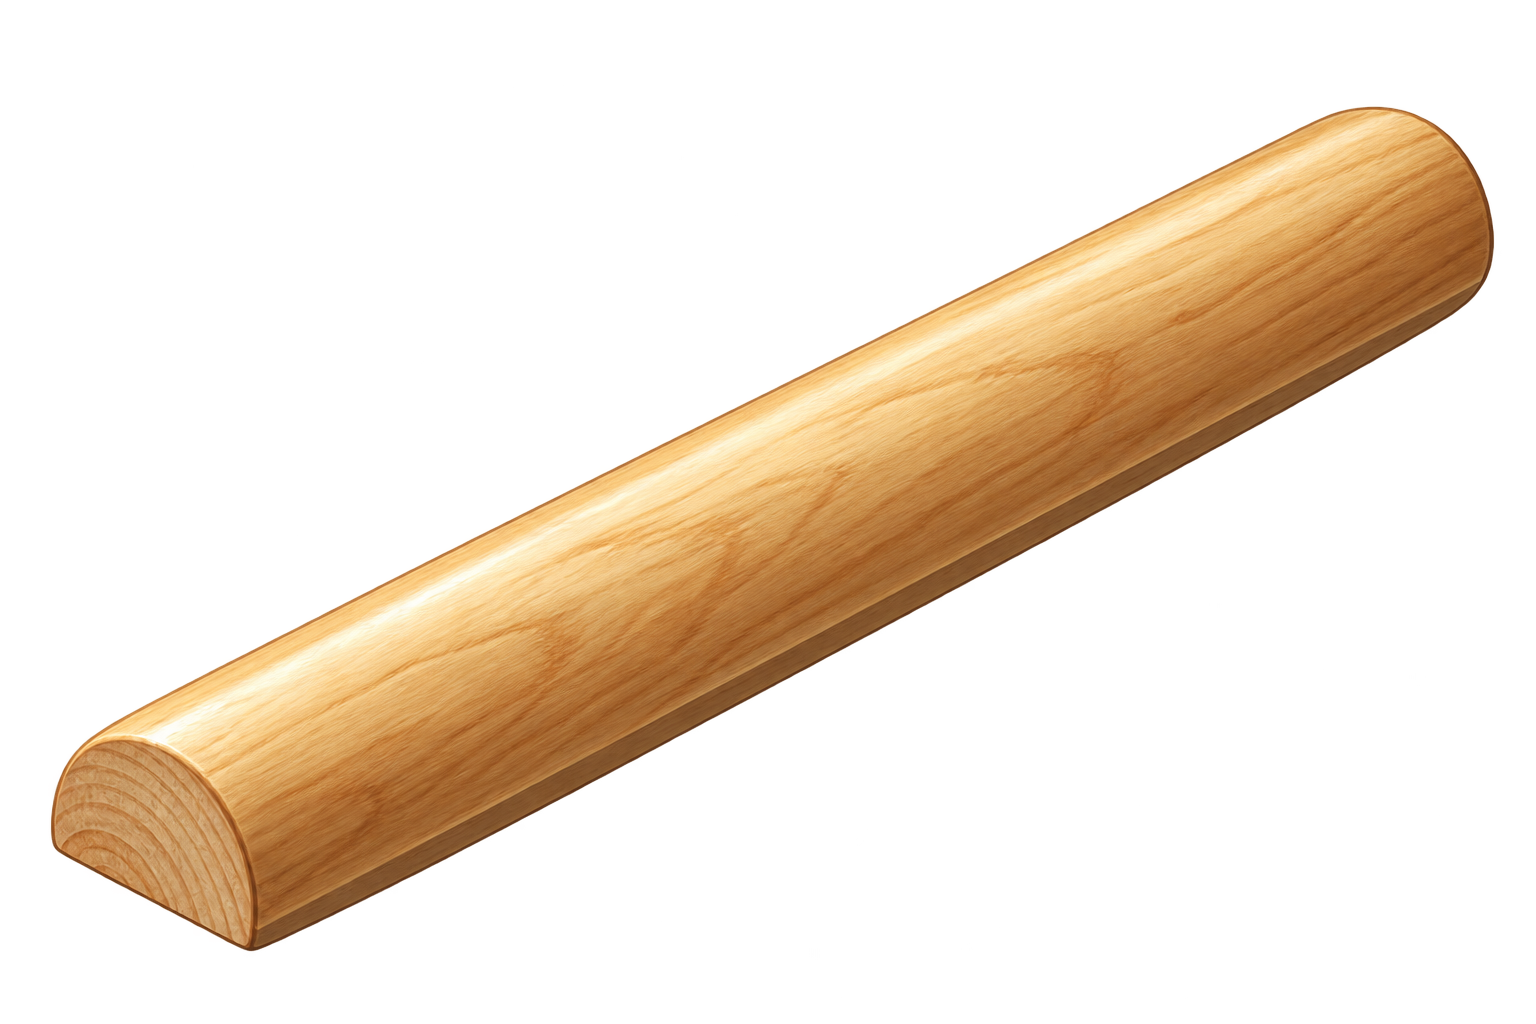
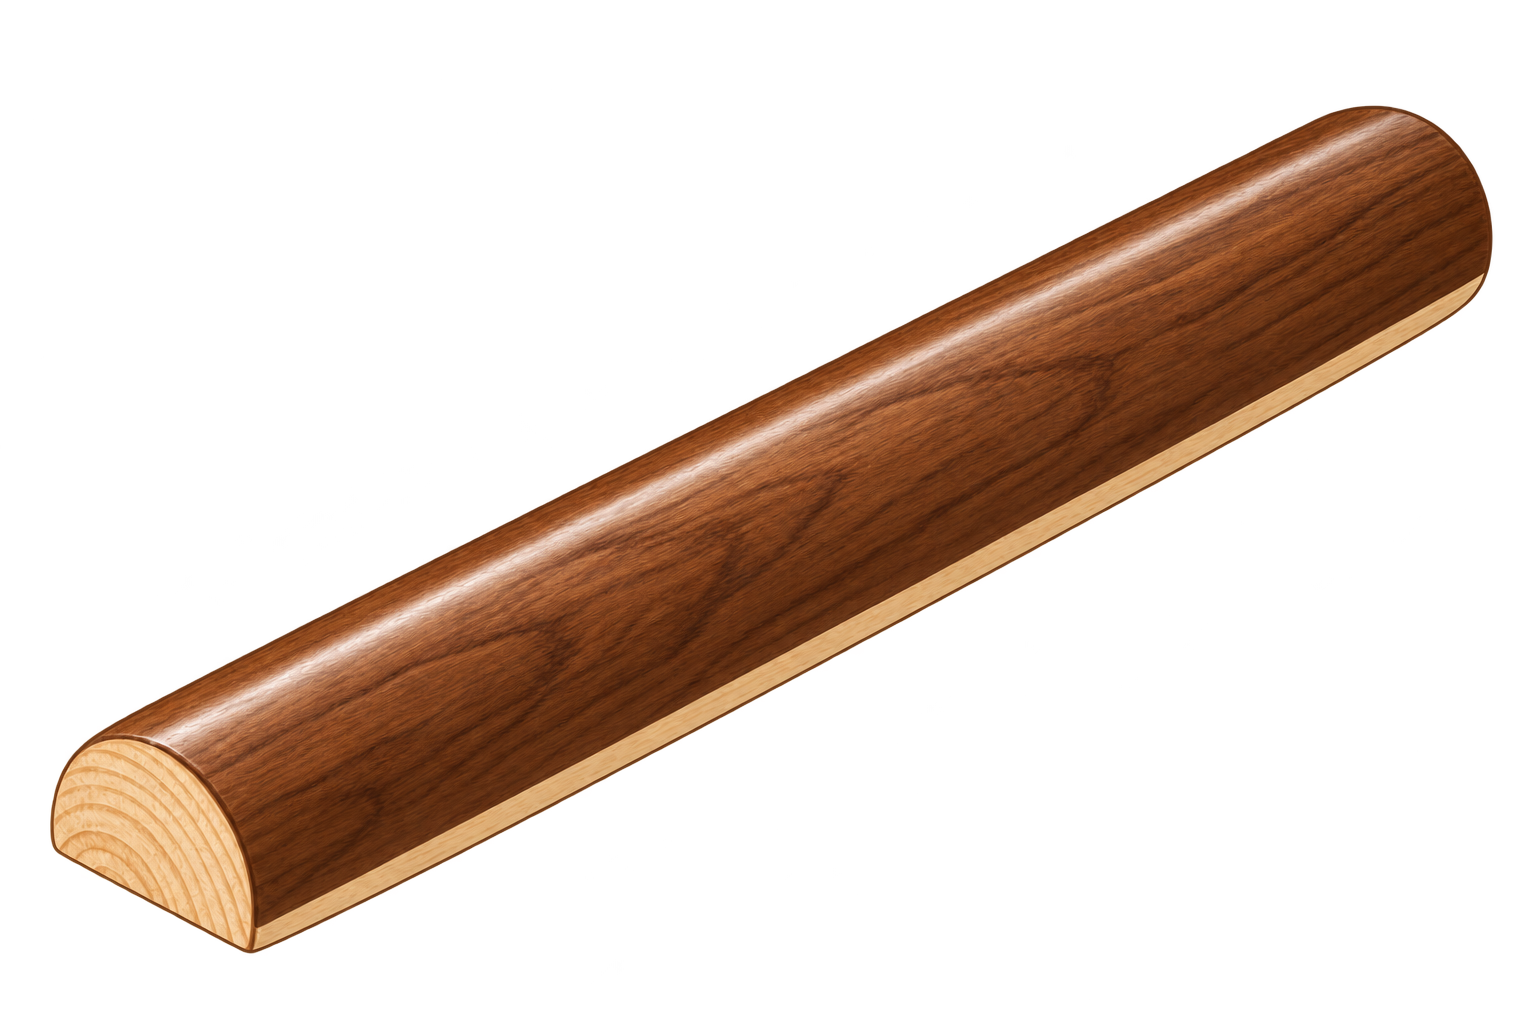
Add flat illustrated special tiles and correct yut face colors

Changed region(s): [[0.0312, 0.0938, 0.9688, 0.9375]]

diff --git a/public/app.js b/public/app.js
@@ -16,7 +16,7 @@ function renderSetup(){renderLobby();}
 function start(){if(config.filter(p=>p.team===0).length!==2){toast('홍단·청단 팀에 두 명씩 배정해주세요.');return}if(config.every(p=>p.ai)){toast('사람을 한 명 이상 선택해주세요.');return}config.forEach((p,i)=>p.name=p.name.trim()||'양반 '+(i+1));game=new Game(config);paused=false;selected=null;document.querySelector('#reset-btn').hidden=false;render();}
 function eligible(id){let s=game.s;if(!NET.canAct()||busy)return false;if(s.phase==='debt')return game.saleOptions().some(o=>o.id===id);if(s.phase==='travel')return id!==game.p.pos;if(s.phase==='route')return s.choice.options.includes(id);if(s.phase==='choice'&&['boost','inspect','invest','startBuild'].includes(s.choice.kind))return s.choice.options.includes(id);return false}
 function playerPanel(p){return `<article class="player owner-${p.color||'red'} team${p.team} ${game.p.id===p.id?'current':''} ${p.out?'out':''}"><img src="${img(p.character)}" alt="${CHARACTERS[p.character]}">${p.cards.length?'<span class="fortune-held" title="'+esc(CARDS[p.cards[0]].name)+'" aria-label="복주머니 보유 · '+esc(CARDS[p.cards[0]].name)+'"><span class="fortune-ball">福</span></span>':''}<div><span class="team-label t${p.team}">${team(p.team)} 팀 ${p.ai?'· AI':p.autoPlay?'· AI 자동':''} ${p.exile?'· 유배 '+p.exile+'회':''} ${p.disconnectedUntil?'· 자리 예약':''} ${p.out?'· 파산':''}</span><div class="name"><span class="player-name">${esc(p.name)}</span><span class="player-rank" title="총자산 ${money(game.grossAssets(p))}엽전">${game.rank(p)}위</span></div><div class="money"><img class="coin-icon" src="assets/coin.svg" alt="엽전">${money(p.cash)} <small>엽전</small></div><small>총자산 ${money(game.assets(p))} · 복귀 ${p.laps||0}회 · 건설 ${game.maxBuild(p)}단계 · 전당포 ${p.pawnUsed?'사용':'미사용'}</small>${p.famine||p.taxAt!==null?'<br><small class="warning">'+(p.famine?'다음 지원금 50엽전 ':'')+(p.taxAt!==null?'가렴주구 대기':'')+'</small>':''}</div></article>`;}
-function board(){let s=game.s;return `<div class="board-shell"><div class="board-scroll"><div class="board"><svg class="routes" viewBox="0 0 100 100" aria-hidden="true"><path class="under" d="M90 90V10H10V90Z M90 10L10 90 M10 10L90 90"/><path class="path" d="M90 90V10H10V90Z M90 10L10 90 M10 10L90 90"/></svg>${routeMarkers()}${NODES.map(n=>{let l=s.land[n.id],owner=l?.owner!==null&&l?.owner!==undefined?s.players[l.owner]:null,ps=s.players.filter(p=>!p.out&&p.pos===n.id);return `<button class="node ${n.type!=='property'?'special':''} ${n.type==='inspector'?'inspector':''} ${owner?'team'+owner.team+' owner-'+owner.color:''} ${eligible(n.id)?'eligible':''} ${saleSelection.has(n.id)&&s.phase==='debt'?'sale-selected':''} ${l?.boost?'boost':''} ${l?.mortgageTurns?'mortgaged':''}" style="left:${n.x}%;top:${n.y}%" data-node="${n.id}" title="${esc(SPECIAL_HELP[n.type]?.text||n.name)}" aria-label="${n.name}${owner?' '+esc(owner.name)+' 소유 '+(l.buildings.map(t=>BUILDINGS[t]).join(' · ')||'빈 땅'):''}" ${busy?'disabled':''}>${n.type==='property'&&owner&&l.buildings.length?`<span class="estate-buildings">${l.buildings.map(t=>`<img class="building b${t}" src="assets/buildings/${owner.team===0?'red':'blue'}-${t}.png" alt="${team(owner.team)} ${BUILDINGS[t]}">`).join('')}</span>`:`<span class="nicon">${ICONS[n.type]}</span>`}<span class="nname">${n.name}</span><span class="nvalue">${n.type==='property'?(owner?'통행료 '+game.toll(n.id):n.price+'엽전'):(SPECIAL_HELP[n.type]?.short||'')}</span>${ps.length?`<span class="tokens">${ps.map(p=>`<span class="token owner-${p.color} t${p.team}" data-pid="${p.id}"><img src="${img(p.character)}" alt="${esc(p.name)}의 말"><b>${esc(p.name)}</b></span>`).join('')}</span>`:''}</button>`}).join('')}</div></div><div class="board-footer"><div class="legend"><span><i class="dot"></i>홍단 ${money(game.teamAssets(0))}</span><span><i class="dot t1"></i>청단 ${money(game.teamAssets(1))}</span></div><span>고을을 누르면 정보 확인</span></div></div>`;}
+function board(){let s=game.s;return `<div class="board-shell"><div class="board-scroll"><div class="board"><svg class="routes" viewBox="0 0 100 100" aria-hidden="true"><path class="under" d="M90 90V10H10V90Z M90 10L10 90 M10 10L90 90"/><path class="path" d="M90 90V10H10V90Z M90 10L10 90 M10 10L90 90"/></svg>${routeMarkers()}${NODES.map(n=>{let l=s.land[n.id],owner=l?.owner!==null&&l?.owner!==undefined?s.players[l.owner]:null,ps=s.players.filter(p=>!p.out&&p.pos===n.id);return `<button class="node ${n.type!=='property'?'special special-'+n.type:''} ${n.type==='inspector'?'inspector':''} ${owner?'team'+owner.team+' owner-'+owner.color:''} ${eligible(n.id)?'eligible':''} ${saleSelection.has(n.id)&&s.phase==='debt'?'sale-selected':''} ${l?.boost?'boost':''} ${l?.mortgageTurns?'mortgaged':''}" style="left:${n.x}%;top:${n.y}%" data-node="${n.id}" title="${esc(SPECIAL_HELP[n.type]?.text||n.name)}" aria-label="${n.name}${owner?' '+esc(owner.name)+' 소유 '+(l.buildings.map(t=>BUILDINGS[t]).join(' · ')||'빈 땅'):''}" ${busy?'disabled':''}>${n.type==='property'&&owner&&l.buildings.length?`<span class="estate-buildings">${l.buildings.map(t=>`<img class="building b${t}" src="assets/buildings/${owner.team===0?'red':'blue'}-${t}.png" alt="${team(owner.team)} ${BUILDINGS[t]}">`).join('')}</span>`:`${n.type!=='property'?`<span class="special-emblem" aria-hidden="true"><img src="assets/tiles/${n.type}.png" alt="" draggable="false"></span>`:`<span class="nicon">${ICONS[n.type]}</span>`}`}<span class="nname">${n.name}</span><span class="nvalue">${n.type==='property'?(owner?'통행료 '+game.toll(n.id):n.price+'엽전'):(SPECIAL_HELP[n.type]?.short||'')}</span>${ps.length?`<span class="tokens">${ps.map(p=>`<span class="token owner-${p.color} t${p.team}" data-pid="${p.id}"><img src="${img(p.character)}" alt="${esc(p.name)}의 말"><b>${esc(p.name)}</b></span>`).join('')}</span>`:''}</button>`}).join('')}</div></div><div class="board-footer"><div class="legend"><span><i class="dot"></i>홍단 ${money(game.teamAssets(0))}</span><span><i class="dot t1"></i>청단 ${money(game.teamAssets(1))}</span></div><span>고을을 누르면 정보 확인</span></div></div>`;}
 function btn(action,text,kind='primary',value,disabled=false){return `<button class="${kind} full" data-action="${action}" ${value!==undefined?'data-value="'+esc(value)+'"':''} ${busy||disabled?'disabled':''}>${text}</button>`}
 function targets(){return '<p class="board-pick-note">보드에서 빛나는 고을을 직접 누르세요.</p>'; }
 function controls(){let s=game.s,p=game.actor;if(!NET.canAct())return '<p>'+esc(p.name)+(p.ai||p.autoPlay?' · AI 자동 진행 중입니다.':'님의 선택을 기다리고 있습니다.')+'</p><p class="muted">다른 사용자는 진행 상황을 함께 볼 수 있습니다.</p>';if(s.phase==='ended')return '';if(p.ai)return (s.phase==='notice'?'<p>'+esc(s.notice.text)+'</p>':'')+`<div class="auto-status">${paused?'AI가 쉬고 있습니다.':'AI 양반이 다음 수를 생각하고 있어요…'}</div><button class="secondary full" data-do="pause">${paused?'AI 진행 재개':'AI 잠시 멈추기'}</button>`;switch(s.phase){case'notice':return '<p>'+esc(s.notice.text)+'</p>'+btn('ack','확인');case'roll':return powerButton('roll','윷 두 번 던지기');case'moves':return '<p>사용할 윷과 예상 도착지를 선택하세요.<br>모든 이동 후 마지막 칸의 효과만 적용됩니다.</p>'+game.remaining().map(r=>{const targets=game.preview(r.index).map(v=>node(v.at).name);return `<button class="result-choice" data-action="use" data-value="${r.index}" data-preview="${r.index}" ${busy?'disabled':''}><b>${r.name} ${r.value>0?'+':''}${r.value}칸</b><span>→ ${[...new Set(targets)].join(' / ')}</span><small>${targets.length>1?'갈림길에서 경로 선택':game.remaining().length>1?'중간 도착 · 칸 효과 없음':'최종 도착 · 칸 효과 적용'}</small></button>`}).join('');case'extra':return `<p>윷·모가 나왔습니다. 한 번만 더 던질 수 있어요.</p>${powerButton('extra','한 번 더 던지기',true)}${btn('extra','추가 없이 결과 선택','secondary',false)}`;case'route':return `<p>${s.pendingMove<0?'빽도 · 보드에서 뒤로 갈 길을 선택하세요.':'보드에서 빛나는 다음 칸을 눌러 길을 선택하세요.'}</p><div class="route-summary">${s.choice.options.map(id=>'<span>'+node(id).name+' 경유 → '+node(game.path(s.pendingMove,id).at).name+'</span>').join('')}</div>`+btn('cancelRoute','← 되돌아가기 · 윷 다시 선택','secondary');case'travel':return `<p>마굿간 자유 이동입니다.<br>보드의 원하는 칸을 누르세요.<br>안내된 전진 경로가 출발점을 지나면<br>100엽전과 건설 단계 해금을 받습니다.</p>`;case'exile':return (p.cards.includes('pardon')?btn('card','임금의 사면령으로 즉시 탈출','primary',p.cards.indexOf('pardon')):'')+`<p>유배 중 · 남은 휴식 ${p.exile}회<br>윷·모를 던지면 탈출할 수 있습니다.</p>${p.cash>=10?btn('exilePay','속전 10엽전 내고 탈출'):''}${powerButton('exileRoll','윷 한 번으로 탈출 시도')}`;case'debt':return debtPanel();case'choice':{let c=s.choice;if(c.kind==='keep')return '<p>복주머니는 한 장만 보유할 수 있습니다.<br>남길 카드를 선택하세요. 다른 카드는 복주머니로 돌아갑니다.</p><p><b>기존: '+CARDS[p.cards[0]].name+'</b><br>'+CARDS[p.cards[0]].text+'<br><b>새 카드: '+CARDS[c.incoming].name+'</b><br>'+CARDS[c.incoming].text+'</p>'+btn('choose','기존 카드: '+CARDS[p.cards[0]].name,'secondary','old')+btn('choose','새 카드: '+CARDS[c.incoming].name,'primary','new');if(c.kind==='toll')return '<p>'+node(game.p.pos).name+' · 통행료 '+money(c.cost)+'엽전<br>카드 사용 또는 납부를 선택하세요.</p>'+c.options.map(v=>btn('choose',v==='pay'?'통행료 납부':v==='shield'?'통행증 · 통행료 면제':'마패 탈취 · '+money(Math.floor(game.landValue(game.p.pos)*.5))+'엽전 반값 매입',v==='pay'?'secondary':'primary',v)).join('');if(c.kind==='freeze')return '<p>'+esc(game.p.name)+'의 배당 '+c.payout+'엽전<br>'+esc(p.name)+' · 동작그만 사용 시 '+Math.floor(c.payout*.5)+'엽전을 받습니다.</p>'+btn('choose','동작그만 사용','primary','use')+btn('choose','사용하지 않기','secondary','skip');if(c.kind==='startBuild')return '<p>출발점에 최종 도착했습니다.<br>보드에서 자기·팀원 고을 하나를 선택한 뒤 '+game.maxBuild()+'단계까지 건설할 수 있습니다. 건설비는 본인이 부담합니다.</p>'+targets(c.options,'choose')+btn('choose','건설하지 않기','secondary','skip');if(c.kind==='invest')return '<p>팀 고을을 하나 선택하세요.<br>복귀 횟수와 관계없이 모든 단계 건물을 무료로 건설합니다.</p>'+targets(c.options,'choose');if(c.kind==='boost')return '<p>다음 도착 통행료를 두 배로!<br>우리 팀의 고을을 선택하세요.</p>'+targets(c.options,'choose');if(c.kind==='inspect')return '<p>상대 고을의 건물을 전부 매각합니다.<br>대상 고을을 선택하세요.</p>'+targets(c.options,'choose');if(c.kind==='bandit')return '<p>산적에게 반납할 카드 한 장을 고르세요.</p>'+c.options.map(i=>btn('choose',CARDS[p.cards[i]].name,'secondary',i)).join('');if(c.kind==='gamble')return `<p>한 판만 진행합니다. 윷 2배 · 모 3배 · 빽도 5배.<br>그 외에는 판돈을 잃습니다.</p><div class="bet-value"><span id="bet-number">${Math.min(bet,c.max)}</span> <small>엽전</small></div><input class="bet-input" id="bet-input" aria-label="판돈" type="range" step="10" min="${c.min}" max="${c.max}" value="${Math.min(bet,c.max)}">${powerButton('gamble','판돈을 걸고 윷 던지기')}`;break;}case'manage':return `<p>${p.out?'이번 양반은 파산했습니다.':s.noMove?'낙으로 이동하지 못했습니다.':node(p.pos).name+'에 도착했습니다.'}<br>출발점 복귀 ${p.laps||0}회 · 건설 가능 ${game.maxBuild()}단계</p>${game.canBuy()?btn('buy',node(p.pos).price+'엽전으로 고을 매입'):''}${game.canAcquire()?btn('acquire','상대 고을 매입 · '+money(game.acquirePrice())+'엽전'):''}${s.startBuildTarget?'<p><b>'+node(s.startBuildTarget).name+'에 건설</b></p>':''}${game.availableBuildings().map(t=>btn('build','<img class="build-option-image tier'+t+'" src="assets/buildings/'+(p.team===0?'red':'blue')+'-'+t+'.png" alt=""><span>'+BUILDINGS[t]+' 짓기 · '+game.buildCost(game.buildLocation(),t)+'엽전'+(!game.canBuild(t)?' · 엽전 부족':'')+'</span>','primary',t,!game.canBuild(t))).join('')}${game.remaining().length?btn('continue','남은 윷 결과 선택 →','secondary'):btn('end','차례 마치기 →','secondary')}`;;}return '';}

diff --git a/public/game-layout.css b/public/game-layout.css
@@ -1,4 +1,20 @@
 /* Game viewport: the board never scrolls; only long action lists and dialogs do. */
+/* Illustrated special spaces: individual palettes and a raised medallion silhouette. */
+.node.special{--tile-light:#fff8df;--tile-dark:#ead09a;--tile-rim:#b28c43;background:linear-gradient(145deg,var(--tile-light),var(--tile-dark));border-color:var(--tile-rim);border-radius:35% 35% 24% 24%;box-shadow:0 4px 0 var(--tile-rim),0 7px 10px #26364c30,inset 0 0 0 2px #fff9;color:#443520}
+.node.special-start{--tile-light:#fff9de;--tile-dark:#d9e8be;--tile-rim:#8b9c57}
+.node.special-event{--tile-light:#fff1fb;--tile-dark:#e6c6eb;--tile-rim:#ab6baf;color:#663568}
+.node.special-festival{--tile-light:#fff7cf;--tile-dark:#f4cf83;--tile-rim:#bf8a35;color:#73501b}
+.node.special-stable{--tile-light:#f4f2ff;--tile-dark:#c5d3ed;--tile-rim:#7c8db3;color:#34496c}
+.node.special-exile{--tile-light:#eeedf6;--tile-dark:#bfc4d7;--tile-rim:#7c819c;color:#41465e}
+.node.special-gamble{--tile-light:#fbecff;--tile-dark:#dcc0e8;--tile-rim:#9f70b2;color:#653f77}
+.node.special-bandit{--tile-light:#fff0d9;--tile-dark:#e4b38f;--tile-rim:#ae704a;color:#713f2d}
+.node.special-inspector{--tile-light:#fff3ca;--tile-dark:#d7c595;--tile-rim:#8f773c;color:#273b58}
+.node .special-emblem{display:flex;align-items:center;justify-content:center;width:100%;height:5.2cqw;flex-shrink:0;pointer-events:none}
+.special-emblem img{display:block;width:7cqw;height:6cqw;object-fit:contain}
+.node.special .nvalue{color:inherit;opacity:.85}
+.in-game .node.special{border-radius:35% 35% 24% 24%;background:linear-gradient(145deg,var(--tile-light),var(--tile-dark));border-color:var(--tile-rim);box-shadow:0 4px 0 var(--tile-rim),0 7px 10px #26364c30,inset 0 0 0 2px #fff9}
+.in-game .node.special.eligible{box-shadow:0 0 0 4px #f1d891,0 4px 0 var(--tile-rim)}
+@media(max-width:700px){.node .special-emblem{height:5.6cqw}.special-emblem img{width:7.5cqw;height:6.5cqw}}
 body.in-game{height:100dvh;overflow:hidden}
 .in-game .topbar{height:44px;padding:0 16px}
 .in-game .brand{font-size:19px}.in-game .brand small,.in-game .edition{display:none}

diff --git a/public/assets/tiles/README.md b/public/assets/tiles/README.md
@@ -1,0 +1,20 @@
+# 특수칸 2D 이미지
+
+내장 이미지 생성 도구로 만든 투명 배경 PNG입니다. 일반 고을과 구분되는 색상과 윤곽으로 표시하며 게임 규칙은 변경하지 않습니다.
+
+| 파일 | 칸 | 표현 |
+| --- | --- | --- |
+| start.png | 출발점 | 열린 전통 대문과 길 |
+| event.png | 복주머니 | 福 문양의 붉은 주머니 |
+| festival.png | 장원급제 | 어사화 모자와 합격 두루마리 |
+| stable.png | 마굿간 | 말과 마구간 |
+| exile.png | 유배지 | 외딴 섬의 창살 오두막 |
+| gamble.png | 놀음판 | 윷과 엽전 |
+| bandit.png | 산적출현 | 산적 복면과 교차한 칼 |
+| inspector.png | 암행어사 | 금빛 마패와 남색 술 |
+
+## 최종 생성 요청문
+
+공통: 조선시대 윷 부동산 게임의 작은 특수칸에 쓸 단일 2D 삽화. 굵고 깨끗한 외곽선, 단순한 민화풍 형태와 무광 색면, 최대 네 가지 색상. 정면 중심 구도, 40px에서도 구분 가능한 실루엣, 투명 배경. 입체 렌더링·볼륨·베벨·반사광·그림자·배경·워터마크 제외. 글자는 복주머니의 福 이외에는 넣지 않음.
+
+대상별 요청: 출발점은 옥색·황토색 대문과 길, 복주머니는 빨강·자주·금색 주머니, 장원급제는 산호색·금색 꽃 모자와 두루마리, 마굿간은 갈색·파랑 말과 마구간, 유배지는 회청색·보라색 섬과 창살 오두막, 놀음판은 보라색 천 위 윷과 엽전, 산적출현은 주황·먹색 복면과 칼, 암행어사는 남색·금색 마패와 술.

diff --git a/public/assets/yut/README.md b/public/assets/yut/README.md
@@ -1,0 +1,11 @@
+# 윷 이미지 색상·구조 기준
+
+- `stick-rounded.png`: 둥근 윗면. 진한 호두나무 갈색. 별 표시 없음.
+- `stick-flat.png`: 평평한 아랫면. 밝은 나무색. 별 표시 없음.
+- `stick-flat-marked.png`: 평평한 아랫면. 밝은 나무색 + 초록색 별.
+- `yut-set.png`: 둥근 면이 보이는 윷은 진하게, 평평한 면이 보이는 윷은 밝게 구분.
+
+윷은 반원통 형태이며 별 표시는 빽도 판정용 윷의 평평한 아랫면에만 존재합니다. 게임 판정과 별 윷 인덱스는 변경하지 않습니다.
+
+기존 크기·방향·투명 배경을 유지하여 내장 이미지 생성 도구로 편집했습니다.
+편집 요청문: 기존 윷의 형태, 대각선 배치, 크기, 나뭇결과 조명은 유지하고 둥근 윗면만 짙은 호두나무 갈색(#85502d 계열)으로 바꿉니다. 평평한 아랫면은 기존 밝은 나무색을 유지하고, 초록색 별은 평평한 아랫면에만 둡니다. 세트 이미지도 같은 면별 색상을 적용합니다.
